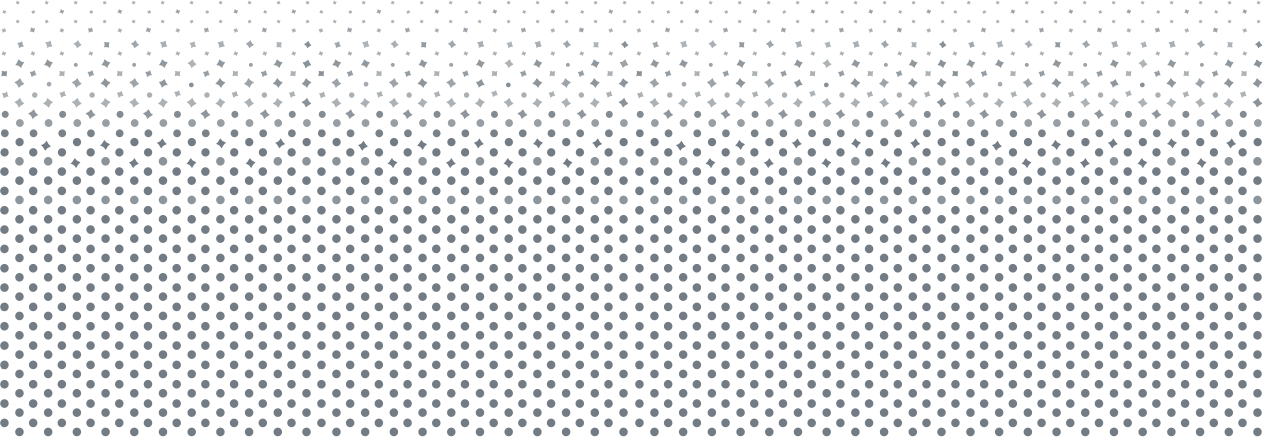
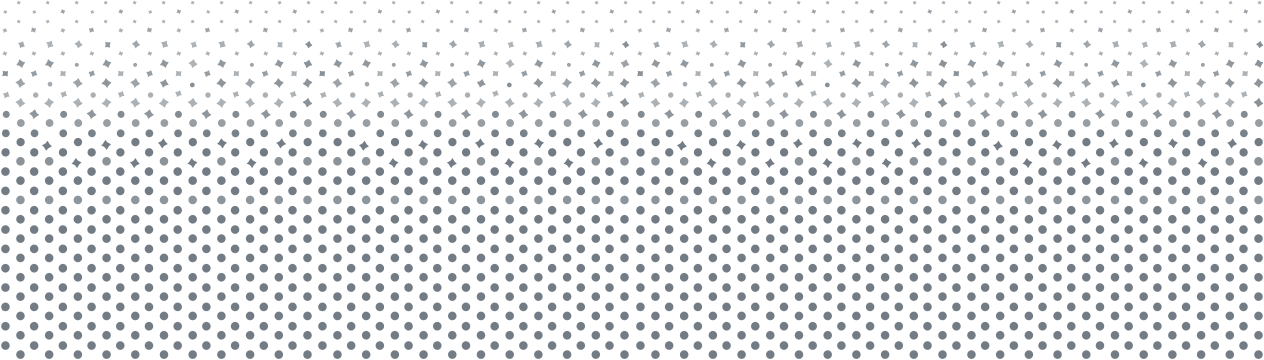
#1758 Update footer dots height Fixes issue when dots make content unreadable when content background is transparent

Changed region(s): [[0.0, 0.0611, 1.0, 1.0]]

diff --git a/app/styles/global.scss b/app/styles/global.scss
@@ -46,13 +46,11 @@ body {
   min-height: 100%;
   max-width: 100%;
   flex: 1;
-  padding-bottom: px-to-rem(266px);
+  padding-bottom: $footer-dots-height;
   padding-left: $authorized-layout-horizontal-padding-sm;
   padding-right: $authorized-layout-horizontal-padding-sm;
   -webkit-overflow-scrolling: touch; // sass-lint:disable-line no-vendor-prefixes
-  background-image: url("../assets/img/footer-dots.png");
-  background-repeat: repeat-x;
-  background-position: bottom;
+  background: url("../assets/img/footer-dots.png") repeat-x bottom;
 }
 
 .row-gutter-top {

diff --git a/app/components/landing/Landing.module.scss b/app/components/landing/Landing.module.scss
@@ -1,12 +1,9 @@
 .landing-wrapper {
-  background-color: $color-white;
-  background-image: url("../../assets/img/footer-dots.png");
-  background-repeat: repeat-x;
-  background-position: bottom;
+  background: $color-white url("../../assets/img/footer-dots.png") repeat-x bottom;
   width: 100%;
   min-height: 100%;
   flex-grow: 1;
-  padding-bottom: px-to-rem(236px);
+  padding-bottom: $footer-dots-height;
 
   h2 {
     text-transform: uppercase;

diff --git a/app/styles/variables.scss b/app/styles/variables.scss
@@ -1,4 +1,5 @@
 $header-height: 60px;
+$footer-dots-height: 360px;
 
 $loading-indicator-color: #333;
 
